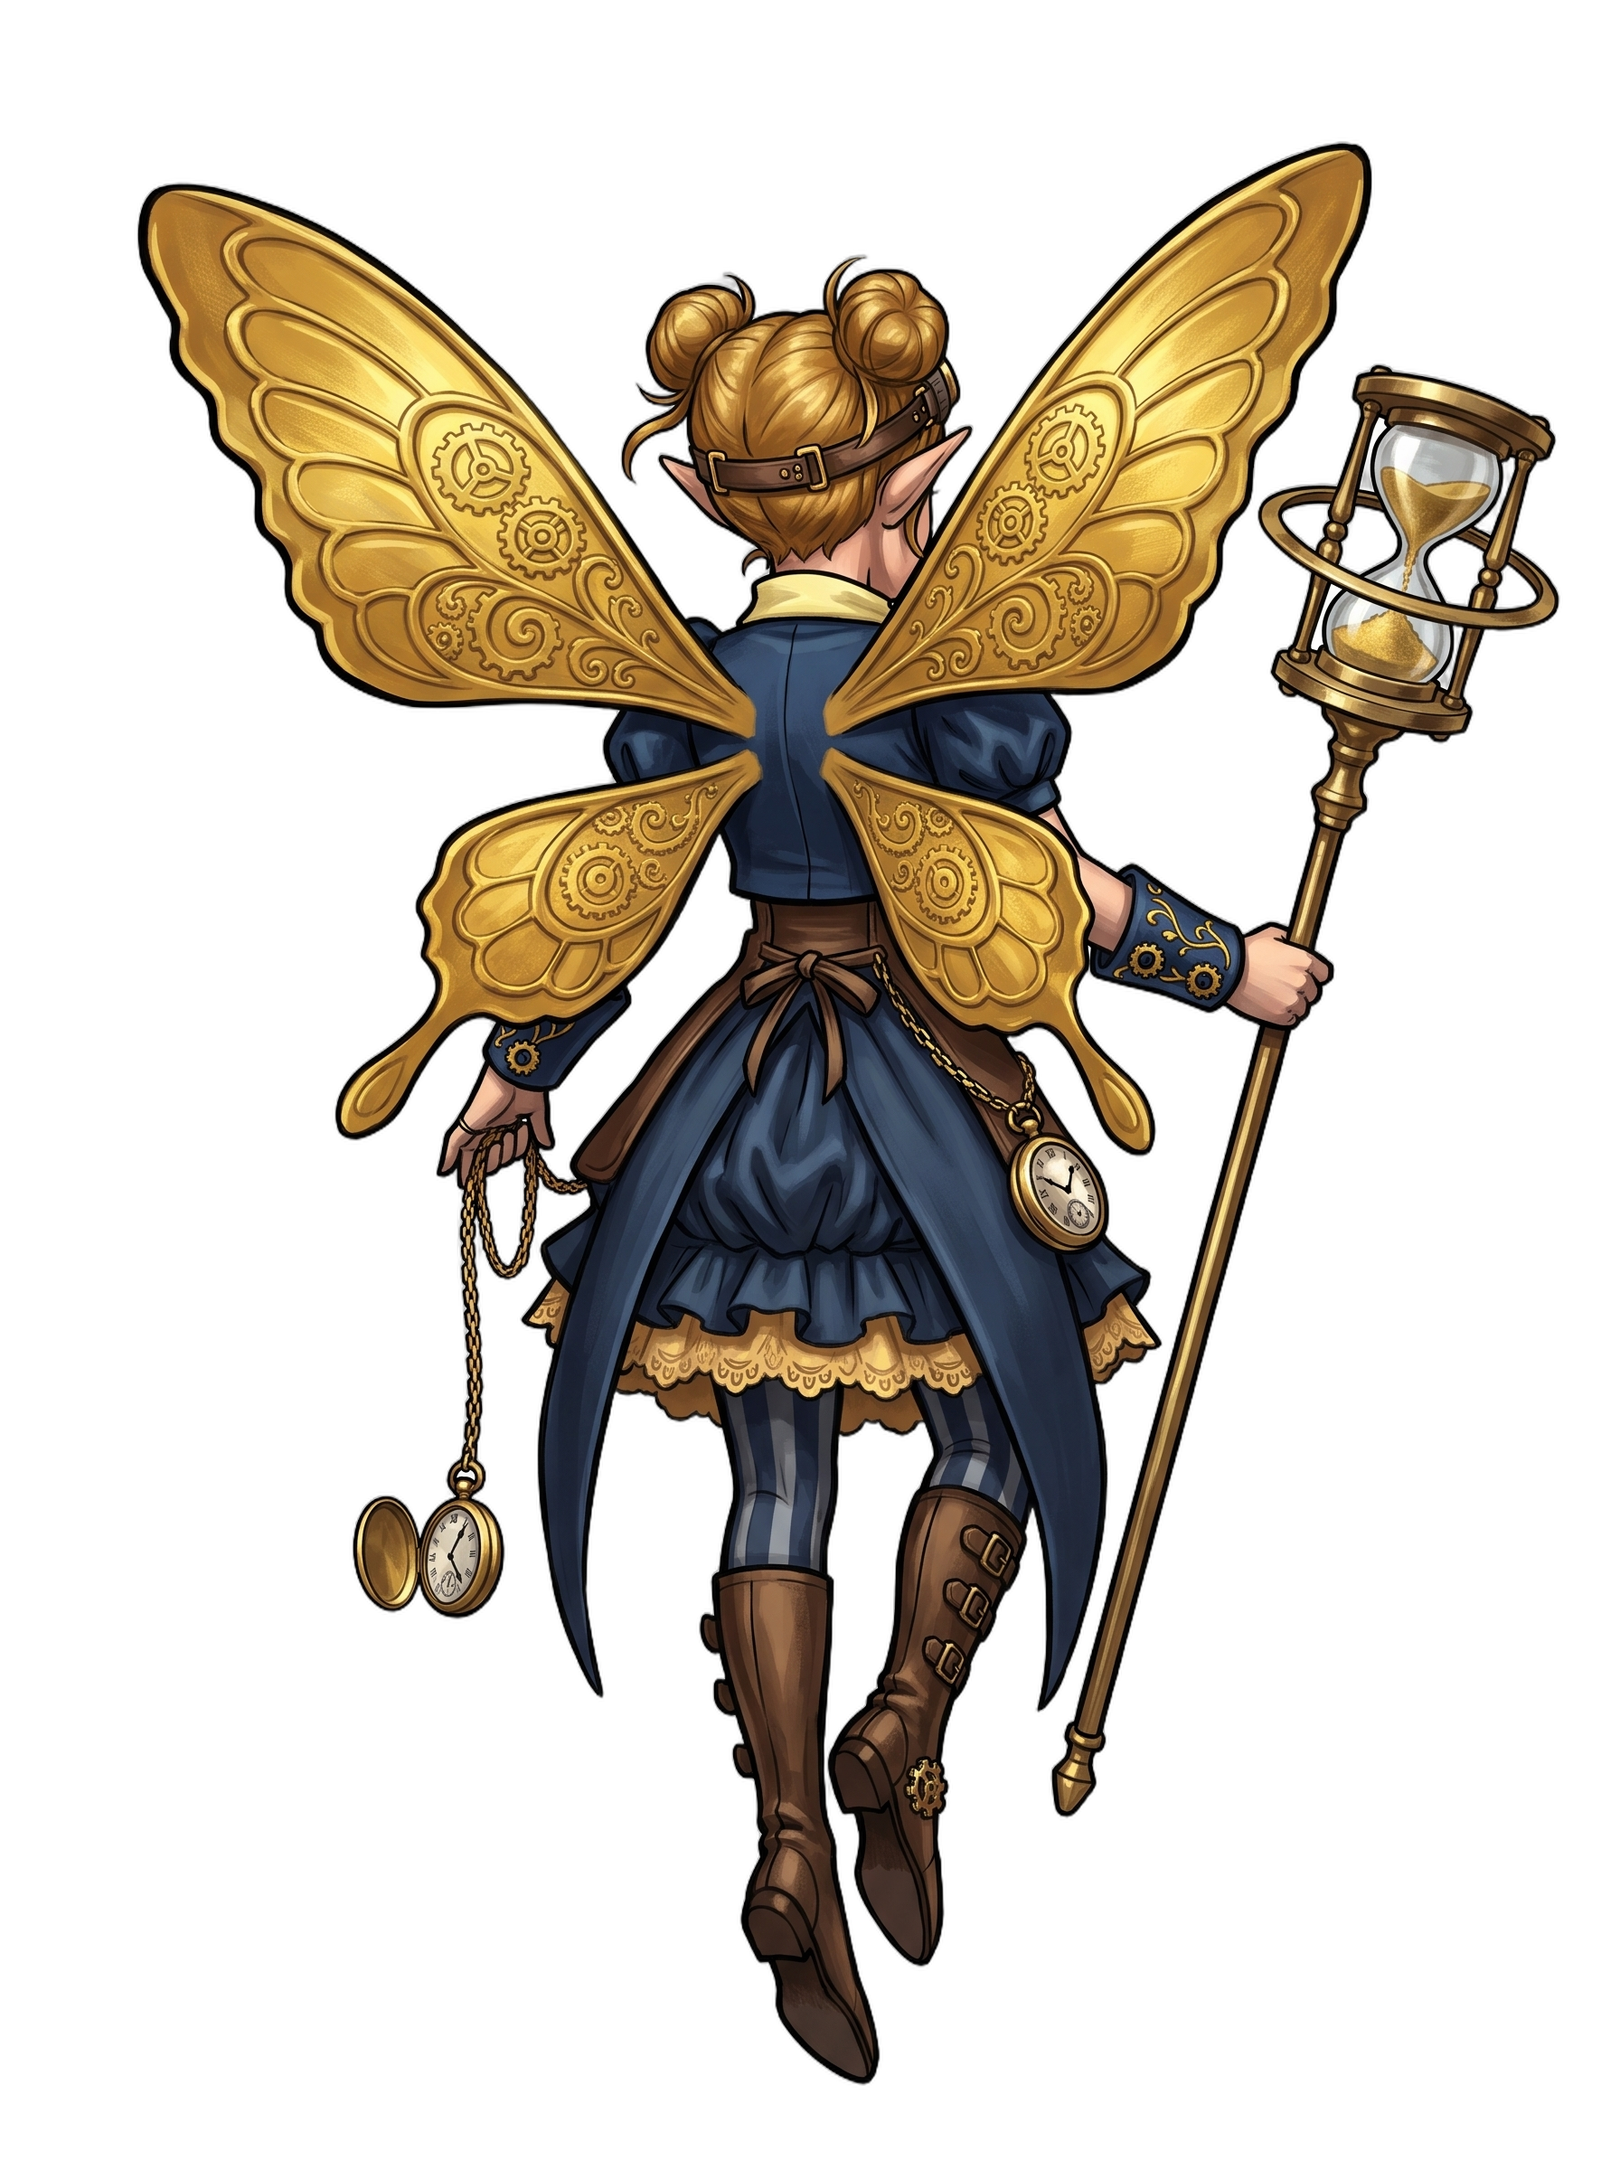
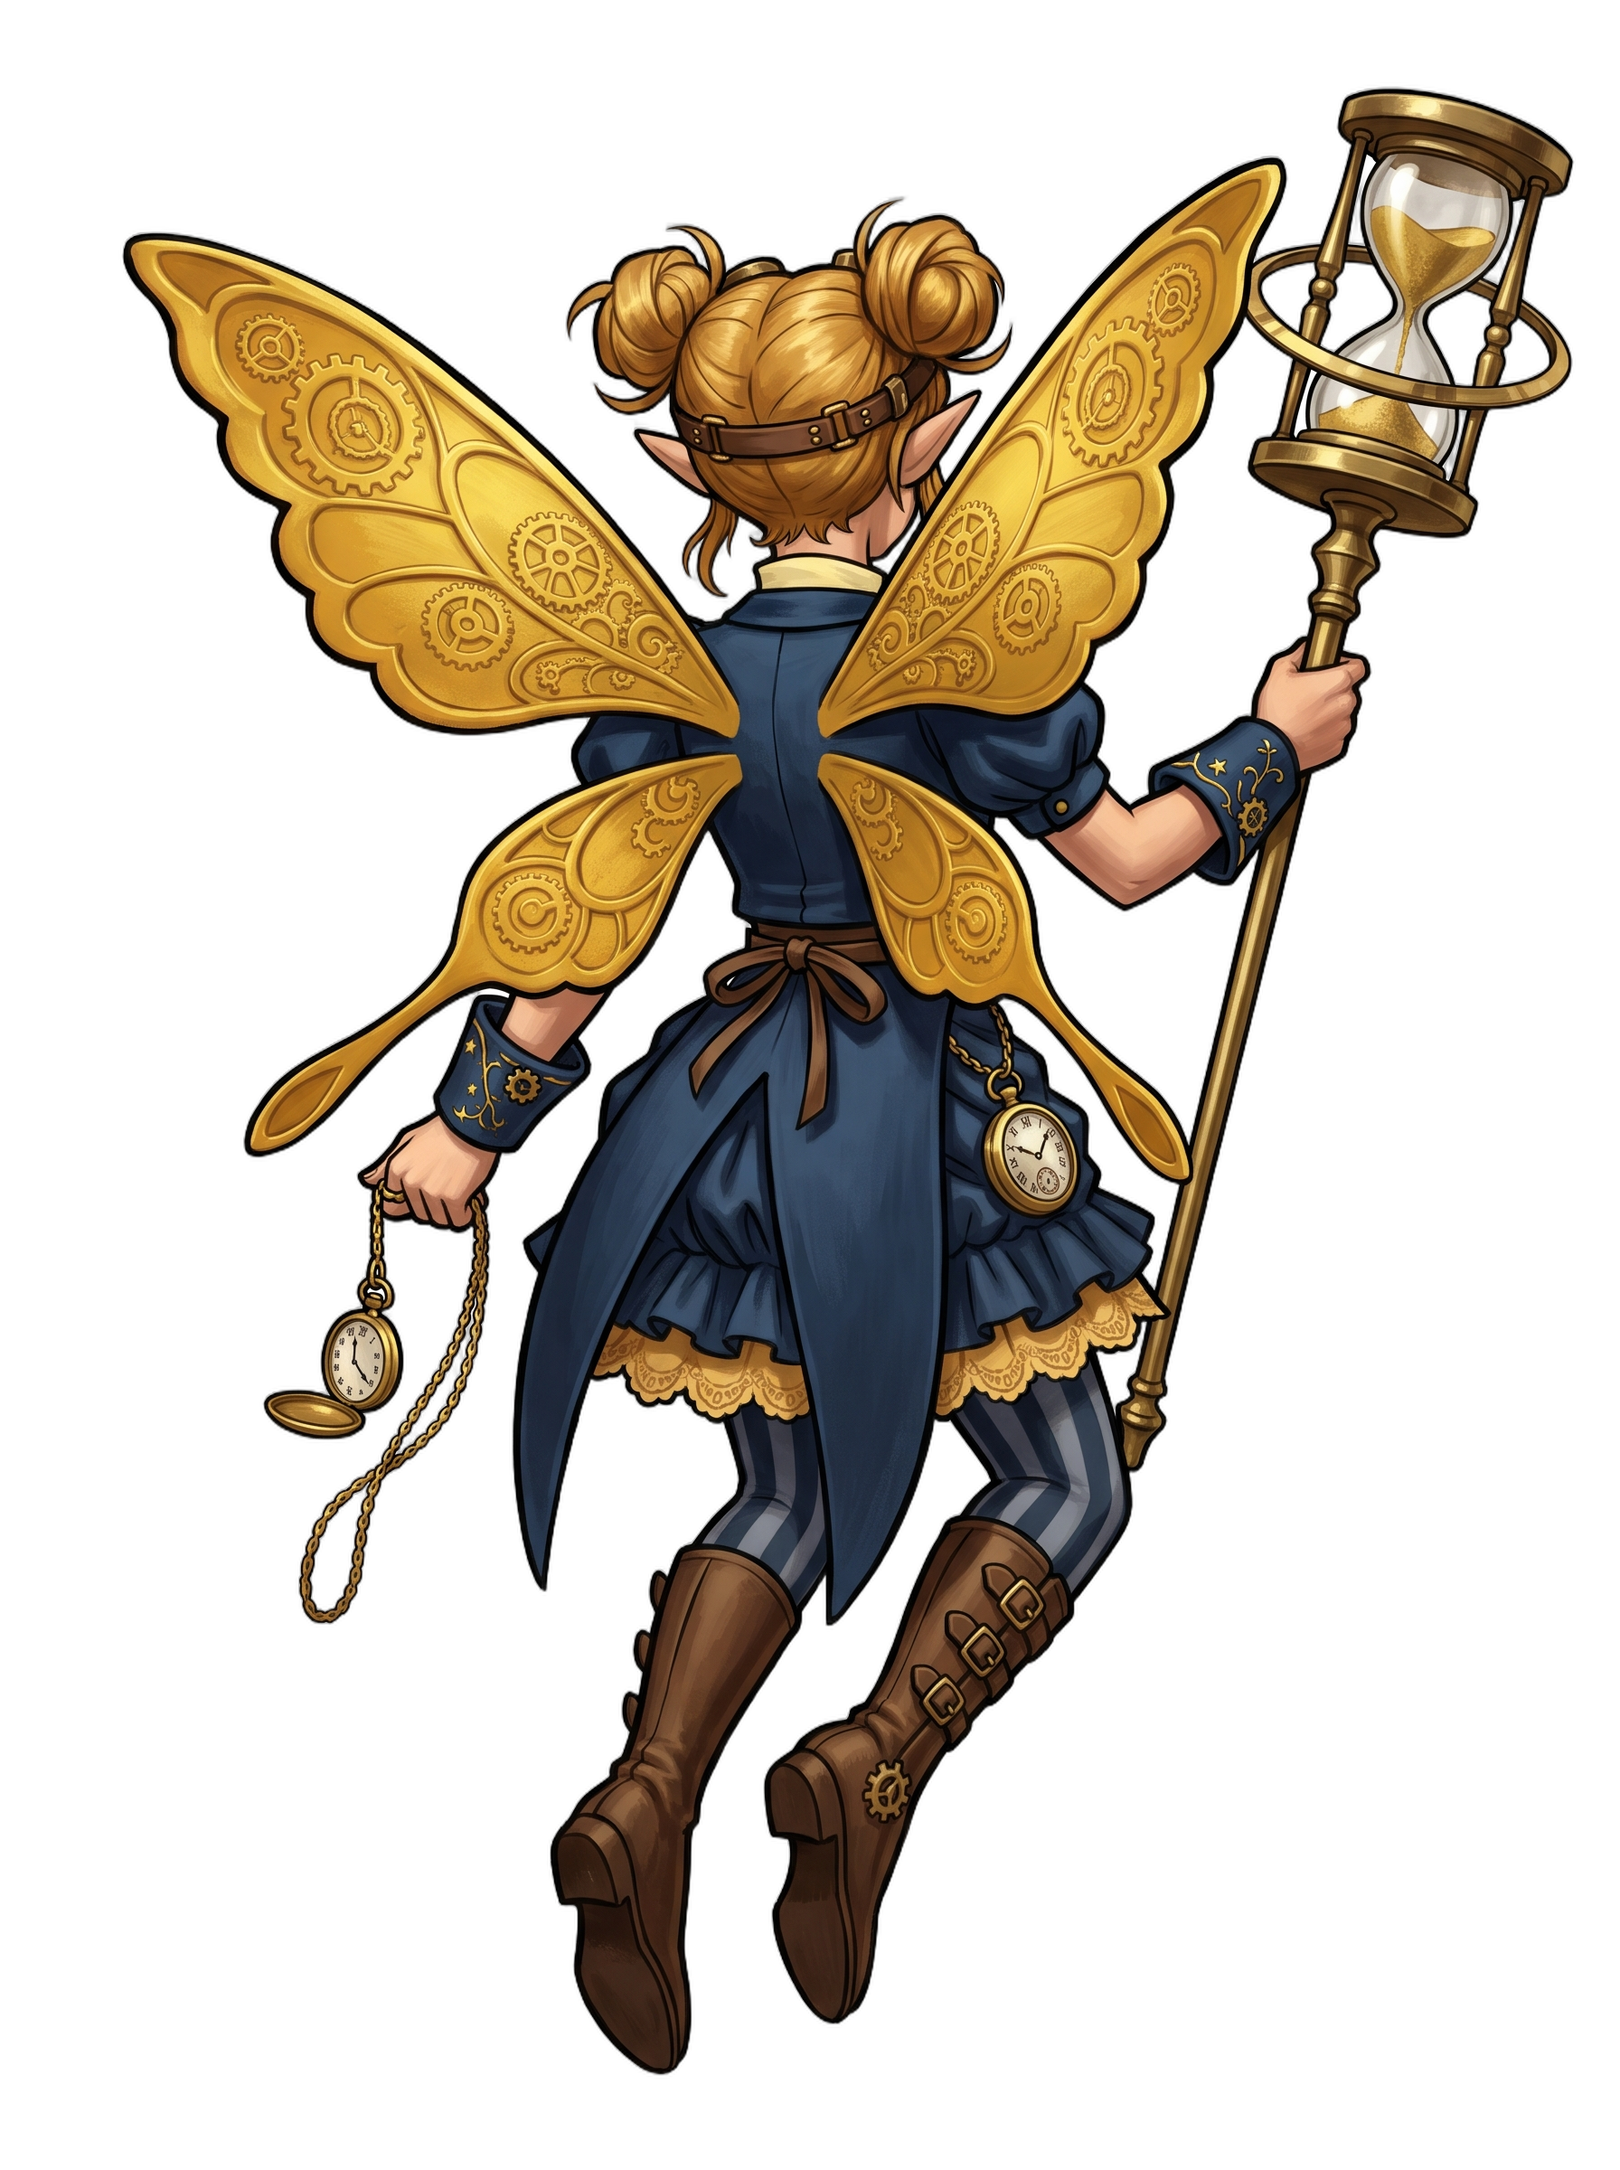
에이다 백뷰 5블록 구조로 재생성 확정

diff --git a/docs/art_prompts/partners.md b/docs/art_prompts/partners.md
@@ -109,17 +109,17 @@ Color palette: gold, brass, midnight blue, honey yellow, brown leather.
 ```
 Pose: floating in mid-air raising the hourglass staff high with one hand, holding up the open pocket watch toward the viewer with the other, cheerful wink.
 ```
-**IDENTITY_BACK** (전투 백뷰 전용, 2026-11-12 추가. 눈·미소·이마의 고글 렌즈 삭제, 고글은 뒤통수 가죽끈으로 표기)
+**POSE_BATTLE_BACK** (2026-11-12 2차 갱신, 5블록 구조의 Block 2. 모래시계를 머리 위로 높이 치켜든 실루엣으로 카스미·주인공과 차별화)
 ```
-Her back is toward the viewer; only the back of her head, her two hair buns and the strap of her goggles are visible. A petite youthful girl fairy, 5 heads tall, seen from behind. Long pointed elf ear tips poking out from both sides of the back of her head. Honey-gold hair in two buns with short loose tails, a brown leather goggle strap with small brass buckles wrapped around the back of her head between the buns. Four opaque metallic golden butterfly wings shaped like a real butterfly's: two broad rounded upper wings with wide scalloped outer edges and two smaller rounded lower wings with short tails, rich golden yellow with intricate embossed clockwork gear filigree patterns, growing from her upper back between the shoulder blades, spread wide and caught mid-beat.
+Pose: compact mid-air ready stance, locked onto a distant opponent in the upper right. Small body leaning forward with a determined tilt, shoulders tense. Right hand firmly gripping a brass staff topped with a large ornate hourglass with golden sand encircled by brass orrery rings, the staff angled forward toward the opponent with the hourglass raised high above her head. Left hand held out at her side gripping an open brass pocket watch on a long gold chain, thumb resting on the crown. Knees drawn up beneath her skirt, legs tucked and compressed while hovering in mid-air. Wings held wide and steady in a quick hovering beat. Coat tails and bustle skirt swaying with light tension.
 ```
-**OUTFIT_BACK** (전투 백뷰 전용, 2026-11-12 추가. 라펠 자수·조끼·블라우스 리본 타이·앞치마 주머니 공구 삭제, 앞치마는 허리 뒤 끈 매듭으로 표기)
+**IDENTITY_BACK** (전투 백뷰 전용, 2026-11-12 2차 갱신. 눈·미소·이마의 고글 렌즈 삭제, 고글은 뒤통수 가죽끈으로 표기, 날개는 1차 확정 결과의 호랑나비형 꼬리 반영)
 ```
-Wearing a fantasy-adapted Victorian-era clockmaker outfit seen from the back: the back of a cropped midnight blue tailcoat jacket with short puffed sleeves, the pale yellow high collar of her blouse peeking above it, two long midnight blue coat tails hanging down from the back of the jacket over her skirt, detached midnight blue wrist cuffs with gold vine and star embroidery and gear-shaped buttons, brown leather apron strings tied in a small bow at the back of her waist, a short ruffled midnight blue bustle skirt above the knees with a gathered bustle puff at the back and a honey yellow lace petticoat peeking below, a brass pocket watch hanging from a chain at her hip, midnight blue and grey striped stockings and knee-high brown boots with triple side buckles and small gear ornaments seen from behind. Props: a brass staff topped with a large ornate hourglass with golden sand encircled by brass orrery rings, and an open brass pocket watch on a long gold chain. No cape or cloak on the shoulders, wings fully visible.
+A petite youthful girl fairy, 5 heads tall, seen from behind. Back of her head and two hair buns are clearly visible, head pointing toward the upper right. Long pointed elf ear tips poking out. Honey-gold hair in two buns with short loose tails, a brown leather goggle strap with small brass buckles wrapped around the back of her head between the buns. Four opaque metallic golden butterfly wings shaped like a real butterfly's: two broad rounded upper wings with wide scalloped outer edges and two smaller rounded lower wings with long swallowtail tails, rich golden yellow with intricate embossed clockwork gear filigree patterns, growing from her upper back between the shoulder blades.
 ```
-**POSE_BATTLE_BACK** (2026-11-12 갱신. 첨부 방식에서 기준 백뷰 자세를 따르므로 지팡이를 오른쪽 옆에 세워 든 자세로 맞춤)
+**OUTFIT_BACK** (전투 백뷰 전용, 2026-11-12 2차 갱신. 라펠 자수·조끼·블라우스 리본 타이·앞치마 주머니 공구 삭제, 무기·소품·망토 부정문 삭제(가이드 규칙 12), 연미복 자락은 1차 확정 결과대로 무릎 길이)
 ```
-Pose: poised battle-ready stance while hovering in place in mid-air, not attacking yet, calmly watching the distant opponent in the upper right, right hand holding the hourglass staff upright at her side, left hand holding the open pocket watch on its chain near her hip, legs hanging below her, wings beating steadily to hover, coat tails and bustle skirt swaying gently.
+Wearing a fantasy-adapted Victorian-era clockmaker outfit seen from the back: cropped midnight blue tailcoat jacket with short puffed sleeves, the pale yellow high collar of her blouse peeking above it. Two midnight blue coat tails hanging down to her knees from the back of the jacket. Detached midnight blue wrist cuffs with gold vine and star embroidery and gear-shaped buttons. Brown leather apron strings tied in a small bow at the back of her waist. Short ruffled midnight blue bustle skirt above the knees with a gathered bustle puff at the back and a honey yellow lace petticoat peeking below. A second brass pocket watch hanging from a chain at her hip. Midnight blue and grey striped stockings and knee-high brown boots with triple side buckles and small gear ornaments seen from behind.
 ```
 
 ### 3.3 비요른 (`bjorn`) - 화염 대장장이 / 노르드(바이킹) 대장장이
@@ -400,3 +400,5 @@ Pose: floating facing away from the viewer toward the enemy, arms spread with pr
 - 2026-11-12 `battle_back_kasumi.png` 교체 확정 (2차, 1차 덮어씀, 원본 사본 `assets/test/battle_back_kasumi_v4style_test.png`): 사용자 결정으로 주인공은 기준 백뷰 v3를 유지하고 동료만 역동적인 전투 준비 자세로 생성. 첨부 없음(텍스트만). 사용자가 외부 매뉴얼 원칙(자세 블록 최상단, 무기를 손 동작과 결합, 비유·부정어 최소화, 카메라 시점 단일화)으로 작성한 프롬프트 사용. 결과에서 쿠나이를 왼쪽 어깨 높이로 치켜든 고유 자세가 반영되어 주인공과 다른 실루엣 확보, 얼굴 비노출, 품질은 첨부 방식 1차와 대등. 닌자도는 프롬프트(정방향)와 달리 역수로 생성됨. 등에 라벤더 X자 끈(타스키)이 임의 생성됨. 다리는 웅크림보다 도약에 가까움. 블록(POSE_BATTLE_BACK, OUTFIT_BACK) 및 가이드 조합 순서 갱신은 별도 작업으로 진행 예정. 최종 프롬프트 전문:
   `Full body character illustration, vertical 3:4 portrait composition, entire figure inside the frame from head to feet, centered, isolated on solid white background. Low-angle from behind and slightly to her left, rear back view. Pose: tightly compressed mid-air ready stance, locked onto a distant opponent in the upper right. Torso aggressively leaning forward and slightly twisted. Right hand securely gripping a short straight ninjato (violet-wrapped grip, square guard) in a forward grip low at her right side, blade angled sharply forward toward the opponent. Left hand raised high near her left shoulder, tightly holding a single kunai ready to throw. Knees drawn up tightly beneath her torso, legs compressed like a loaded spring while hovering in mid-air. Wings held wide and steady in a powerful hovering beat. Ponytail and long obi tails swaying with intense kinetic tension. A lean and agile female fairy, young adult, 7 heads tall, seen from behind. Back of her head and high ponytail are clearly visible, head pointing toward the upper right. Long pointed elf ear tips poking out. Black hair tied in a long high ponytail with a violet hair tie, several violet streaks running through the ponytail. Four large deep violet moth wings with dark eyespot patterns and silver-dusted edges, growing from her upper back between the shoulder blades. Wearing a fantasy-adapted Japanese kunoichi outfit seen from the back: short sleeveless dark violet kimono-style wrap top with lavender trim leaving her shoulders bare. Lavender cloth scarf wrapped around her neck with its knot at the side. Detached dark violet kimono sleeves tied with lavender ribbon bows at the upper arms and wrists. Black obi sash around her waist with a large black bow knot at the back, long tattered black obi tails hanging down. Very short dark violet pleated hakama-style skirt with lavender trim. Black tekko arm guards with silver plates over black fingerless gloves. Black thigh-high stockings, knee-high black kyahan shin guards with silver plates, and black split-toe tabi boots seen from behind. Color palette: deep violet, black, silver, lavender. Art style: bold, thick, dark comic ink outlines with sharp chiseled edges (American cartoon inspired dynamic linework), combined with rich vintage European painterly texture, visible gouache and oil brushstrokes, strong dramatic chiaroscuro lighting, deep clearly defined form shadows, pronounced volumetric three-dimensional shading. No text, no letters, no watermark, no borders, no ground shadow, no background effects.`
 - 2026-11-12 `battle_back_ada.png`는 첨부 방식(기준 백뷰 v3 자세)으로 확정되었으므로, 동료 역동 자세 방침에 따라 재생성 대상.
+- 2026-11-12 `battle_back_ada.png` 교체 확정 (3차, 5블록 구조 텍스트 전용, 기존 2차 덮어씀, 원본 사본 `assets/test/battle_back_ada_v2_test.png`): LAYER_BACK_HEAD + VIEW_BATTLE_BACK_PARTNER + 에이다 POSE_BATTLE_BACK + IDENTITY_BACK + OUTFIT_BACK + PALETTE + STYLE_BASE_BACK + LAYER_BACK_TAIL. 모래시계를 머리 위로 치켜든 실루엣, 나비 날개(호랑나비형 꼬리), 디자인 전 요소 유지. 단 다리가 접히지 않고 늘어뜨린 채 약간 굽혀졌고, 지팡이는 거의 수직, 회중시계는 옆으로 내밀지 않고 아래로 늘어뜨려 쥐어 카스미보다 긴장감이 약함. 사용자 판단으로 밝고 작은 캐릭터성에 어울려 채택. 최종 프롬프트 전문:
+  `Full body character illustration, vertical 3:4 portrait composition, entire figure inside the frame from head to feet, centered, isolated on solid white background. Low-angle from behind and slightly to her left, rear back view. Pose: compact mid-air ready stance, locked onto a distant opponent in the upper right. Small body leaning forward with a determined tilt, shoulders tense. Right hand firmly gripping a brass staff topped with a large ornate hourglass with golden sand encircled by brass orrery rings, the staff angled forward toward the opponent with the hourglass raised high above her head. Left hand held out at her side gripping an open brass pocket watch on a long gold chain, thumb resting on the crown. Knees drawn up beneath her skirt, legs tucked and compressed while hovering in mid-air. Wings held wide and steady in a quick hovering beat. Coat tails and bustle skirt swaying with light tension. A petite youthful girl fairy, 5 heads tall, seen from behind. Back of her head and two hair buns are clearly visible, head pointing toward the upper right. Long pointed elf ear tips poking out. Honey-gold hair in two buns with short loose tails, a brown leather goggle strap with small brass buckles wrapped around the back of her head between the buns. Four opaque metallic golden butterfly wings shaped like a real butterfly's: two broad rounded upper wings with wide scalloped outer edges and two smaller rounded lower wings with long swallowtail tails, rich golden yellow with intricate embossed clockwork gear filigree patterns, growing from her upper back between the shoulder blades. Wearing a fantasy-adapted Victorian-era clockmaker outfit seen from the back: cropped midnight blue tailcoat jacket with short puffed sleeves, the pale yellow high collar of her blouse peeking above it. Two midnight blue coat tails hanging down to her knees from the back of the jacket. Detached midnight blue wrist cuffs with gold vine and star embroidery and gear-shaped buttons. Brown leather apron strings tied in a small bow at the back of her waist. Short ruffled midnight blue bustle skirt above the knees with a gathered bustle puff at the back and a honey yellow lace petticoat peeking below. A second brass pocket watch hanging from a chain at her hip. Midnight blue and grey striped stockings and knee-high brown boots with triple side buckles and small gear ornaments seen from behind. Color palette: gold, brass, midnight blue, honey yellow, brown leather. Art style: bold, thick, dark comic ink outlines with sharp chiseled edges on the body, clothing, props and wings (American cartoon inspired dynamic linework), combined with rich vintage European painterly texture, visible gouache and oil brushstrokes, strong dramatic chiaroscuro lighting with deep, clearly defined form shadows on the body and clothing, pronounced volumetric three-dimensional shading. No text, no letters, no watermark, no borders, no ground shadow, no background effects.`
